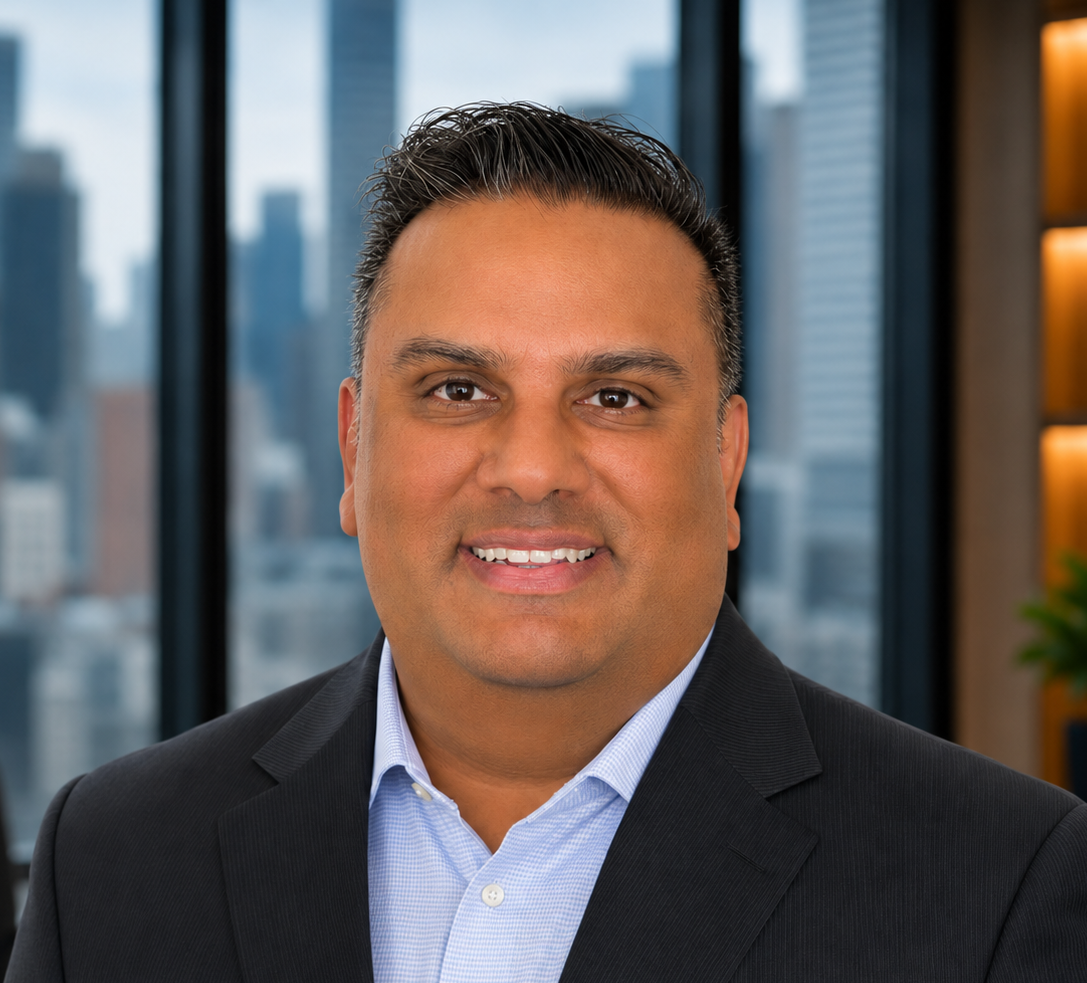
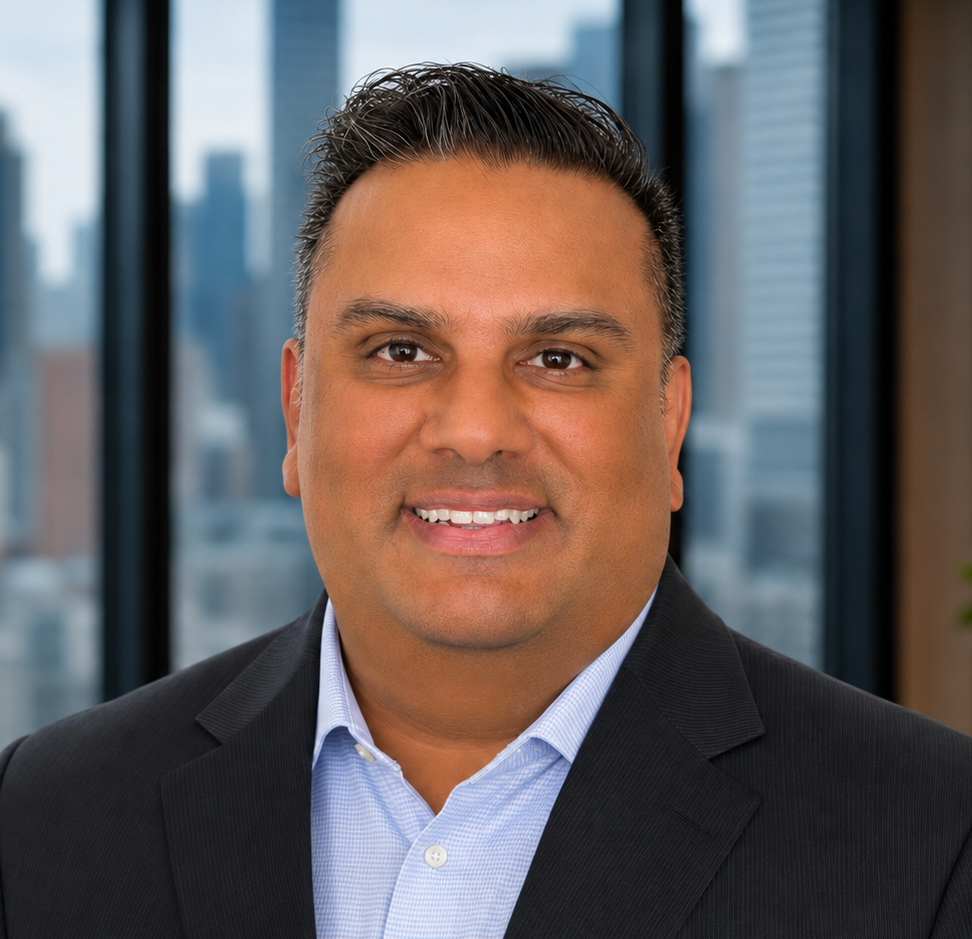
Refresh Vish Kumar headshot.

diff --git a/index.html b/index.html
@@ -118,7 +118,7 @@
                         </a>
                         <a href="team.html" class="about-team-member">
                             <div class="about-team-photo">
-                                <img src="images/vish.png?v=20261114" alt="" onerror="this.src='logo.png'; this.style.opacity='0.3';">
+                                <img src="images/vish.png?v=20261114-2" alt="" onerror="this.src='logo.png'; this.style.opacity='0.3';">
                             </div>
                             <p class="about-team-name">Vish Kumar</p>
                             <p class="about-team-title">Chief Product<br>Officer</p>

diff --git a/team-full.html b/team-full.html
@@ -156,7 +156,7 @@
 
                 <div class="team-card" data-member="vish-kumar">
                     <div class="team-photo">
-                        <img src="images/vish.png?v=20261114" alt="Vish Kumar" style="opacity: 1; filter: none;" onerror="this.src='logo.png'; this.style.opacity='0.3';">
+                        <img src="images/vish.png?v=20261114-2" alt="Vish Kumar" style="opacity: 1; filter: none;" onerror="this.src='logo.png'; this.style.opacity='0.3';">
                     </div>
                     <div class="team-badge">
                         <img src="logo.png" alt="Prytaneum Partners" class="badge-logo">

diff --git a/team.html b/team.html
@@ -152,7 +152,7 @@
 
                 <div class="team-card" data-member="vish-kumar">
                     <div class="team-photo">
-                        <img src="images/vish.png?v=20261114" alt="Vish Kumar" style="opacity: 1; filter: none;" onerror="this.src='logo.png'; this.style.opacity='0.3';">
+                        <img src="images/vish.png?v=20261114-2" alt="Vish Kumar" style="opacity: 1; filter: none;" onerror="this.src='logo.png'; this.style.opacity='0.3';">
                     </div>
                     <div class="team-badge">
                         <img src="logo.png" alt="Prytaneum Partners" class="badge-logo">
